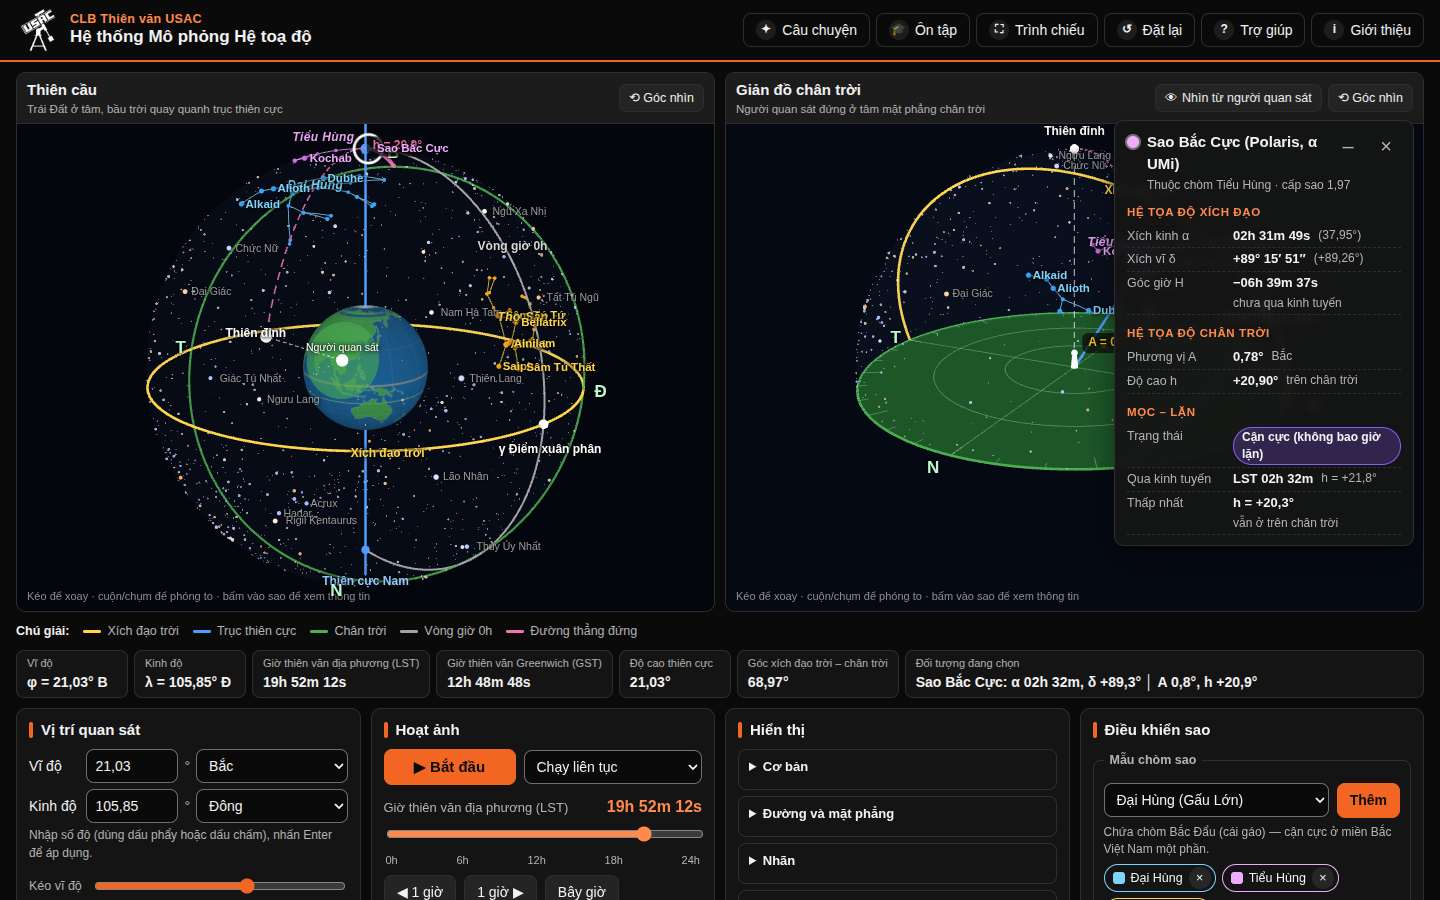
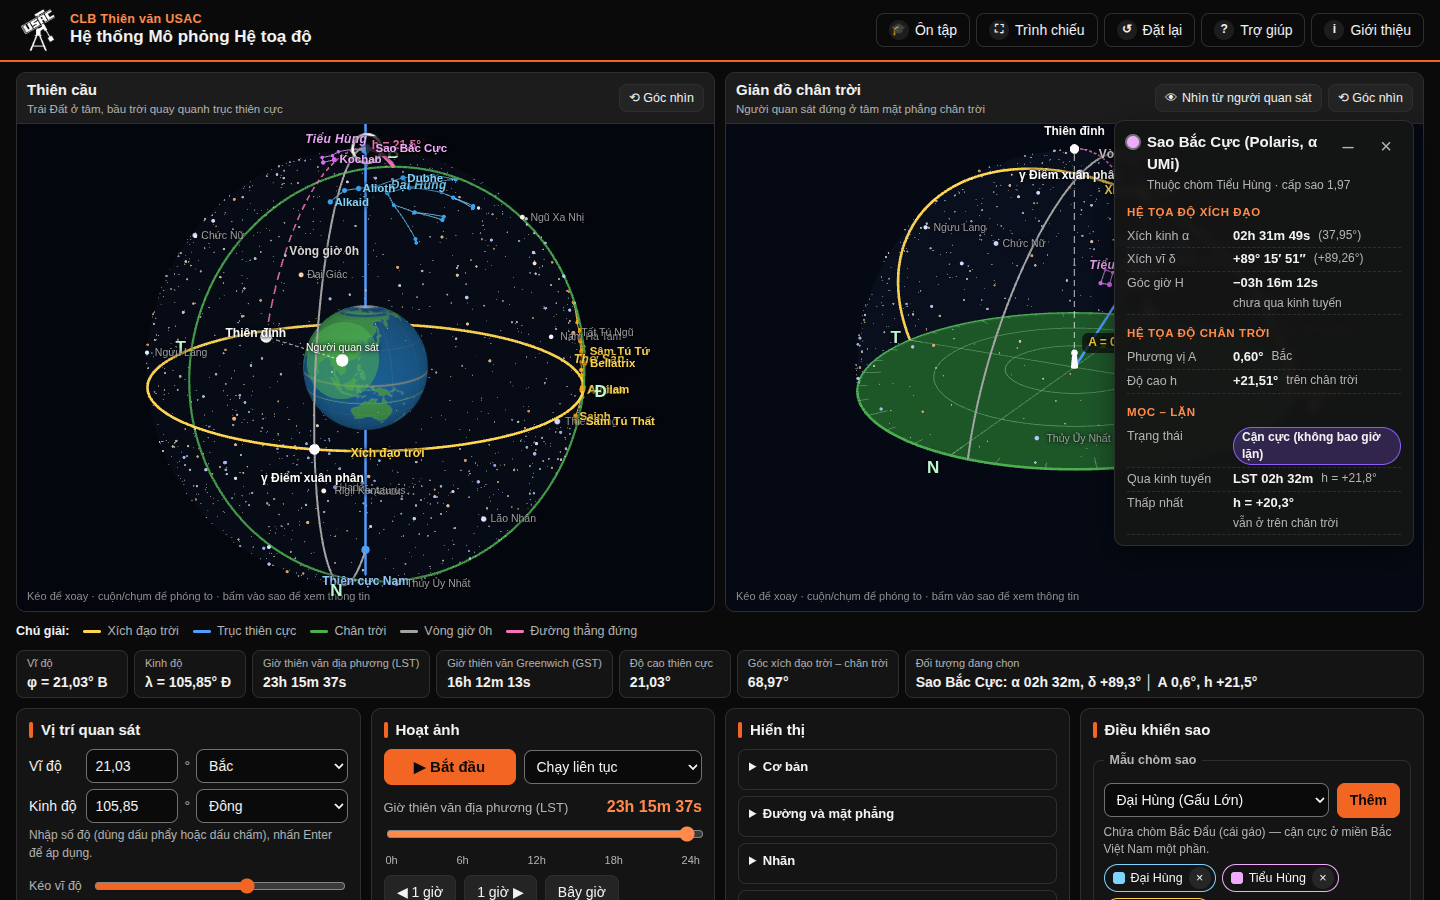
ui: remove remaining guided-story and hero wiring
Drop the Câu chuyện button, story key forwarding, hero button in Giới
thiệu, story strings in help, sheet/hero tokens and story-only places.
Update AGENTS.md and the UI acceptance check to the new top bar.

Claude-Session: https://claude.ai/code/session_019jDA5Mttr3wgpfp9L9cwH3

diff --git a/src/main.ts b/src/main.ts
@@ -6,12 +6,9 @@ import { Animator } from './animator';
 import { t } from './i18n';
 import { startFrameLoop, type FrameView } from './runtime/frameLoop';
 import { createQuality } from './runtime/quality';
-import type { SceneViews } from './scene/boot';
 import { COLORS } from './scene/colors';
 import type { CelestialSphereView } from './scene/celestialSphere';
 import type { HorizonDiagramView } from './scene/horizonDiagram';
-import { mountStory } from './story/entry';
-import type { ViewKey } from './story/types';
 import { Actions, createInitialState, Store, type AppState, type Toggles } from './state';
 import { animationPanel } from './ui/animationPanel';
 import { displayPanel } from './ui/displayPanel';
@@ -65,7 +62,7 @@ const learn = {
 let dialogsMod: Dialogs | null = null;
 let dialogsLoading: Promise<Dialogs> | null = null;
 function loadDialogs(): Promise<Dialogs> {
-  dialogsLoading ??= import('./ui/dialogs').then((m) => (dialogsMod = m.createDialogs({ onShowHero: () => story.showHero() })));
+  dialogsLoading ??= import('./ui/dialogs').then((m) => (dialogsMod = m.createDialogs()));
   return dialogsLoading;
 }
 const dialogs = {
@@ -93,7 +90,6 @@ const topbar = h(
   h(
     'nav',
     { class: 'topbar__actions', 'aria-label': t('top.navAria') },
-    button(t('top.story'), () => story.open(), { cls: 'btn--top', icon: '✦', title: t('top.storyTip') }),
     learnBtn,
     presentBtn,
     button(t('top.reset'), () => resetAll(), { cls: 'btn--top', icon: '↺', title: t('top.resetTip') }),
@@ -160,6 +156,7 @@ const viewTab = (key: 'sphere' | 'horizon') =>
   });
 const tabEls = { sphere: viewTab('sphere'), horizon: viewTab('horizon') };
 const viewTabs = h('div', { class: 'viewtabs', role: 'tablist', 'aria-label': t('view.tabsAria') }, tabEls.sphere, tabEls.horizon);
+type ViewKey = 'sphere' | 'horizon';
 const viewRoving = rovingTabs(viewTabs, (tab) => selectView(tab.dataset.view as ViewKey));
 function selectView(key: ViewKey) {
   views.dataset.active = key;
@@ -284,7 +281,7 @@ function showSceneError(key: 'view.webglError' | 'view.loadError') {
   }
 }
 
-const sceneReady: Promise<SceneViews | null> = scenePromise.then(
+scenePromise.then(
   (m) => {
     for (const host of [sphereHost, horizonHost]) clear(host);
     try {
@@ -340,29 +337,6 @@ const loop = startFrameLoop({
 });
 mountQualityNotice(quality, app);
 
-// ---------------------------------------------------------------- Câu chuyện
-const story = mountStory({
-  store,
-  actions,
-  appRoot: app,
-  reducedMotion: () => window.matchMedia?.('(prefers-reduced-motion: reduce)').matches ?? false,
-  showView: selectView,
-  setFirstPerson: (on) => {
-    void sceneReady.then(() => {
-      if (horizon && horizon.isFirstPerson() !== on) fpBtn.click();
-    });
-  },
-  resetCameras: () => {
-    void sceneReady.then(() => {
-      sphere?.resetCamera();
-      horizon?.resetCamera();
-    });
-  },
-  openLearning: () => learn.open(true),
-  suspendRender: (reason, on) => loop.suspend(reason, on),
-});
-story.maybeShowHero();
-
 // Hook gỡ lỗi/đo hiệu năng — chỉ có ở chế độ phát triển.
 if (import.meta.env.DEV) {
   (window as unknown as Record<string, unknown>).__app = {
@@ -373,7 +347,6 @@ if (import.meta.env.DEV) {
     animator,
     loop,
     quality,
-    story,
     get sphere() {
       return sphere;
     },
@@ -389,7 +362,7 @@ const SPACE_OWNERS = 'button,a,summary,label,[role=tab],input,select,textarea,[c
 const ARROW_OWNERS = '[role=tablist],[role=slider],[role=radiogroup]';
 
 window.addEventListener('keydown', (e) => {
-  // Ưu tiên Esc: 1) hộp thoại gốc (trình duyệt tự đóng) → 2) ngăn Ôn tập → 3) câu chuyện → 4) bỏ chọn.
+  // Ưu tiên Esc: 1) hộp thoại gốc (trình duyệt tự đóng) → 2) ngăn Ôn tập → 3) bỏ chọn.
   if (e.ctrlKey || e.metaKey || e.altKey || dialogs.isOpen()) return;
   const target = e.target instanceof HTMLElement ? e.target : null;
   // Tính "đang gõ" TRƯỚC khi xử lý Esc: Esc trong ô nhập không được bỏ chọn hay đóng ngăn.
@@ -397,12 +370,9 @@ window.addEventListener('keydown', (e) => {
   if (typing) return;
   if (e.key === 'Escape') {
     if (learn.isOpen()) learn.open(false);
-    else if (story.isOpen()) story.onKey(e);
     else actions.select(null);
     return;
   }
-  // Câu chuyện đang mở được xét phím trước (PageDown/PageUp/←/→/Enter để chuyển bước).
-  if (story.isOpen() && story.onKey(e)) return;
   const k = e.key.toLowerCase();
   if (e.key === ' ') {
     if (target?.closest(SPACE_OWNERS)) return;

diff --git a/src/ui/dialogs.ts b/src/ui/dialogs.ts
@@ -123,25 +123,9 @@ function makeDialog(id: string, title: string, lines: string[], extra: HTMLEleme
   return dlg;
 }
 
-export interface DialogOptions {
-  /** Hiện lại màn hình mở đầu (nút trong hộp thoại Giới thiệu, spec K10). */
-  onShowHero?: () => void;
-}
-
-export function createDialogs(opts: DialogOptions = {}) {
+export function createDialogs() {
   const help = makeDialog('dlg-help', t('help.title'), tList('help.body'));
-  const heroBtn = opts.onShowHero
-    ? h('button', {
-        type: 'button',
-        class: 'btn',
-        text: t('about.showHero'),
-        onclick: () => {
-          about.close();
-          opts.onShowHero?.();
-        },
-      })
-    : null;
-  const about = makeDialog('dlg-about', t('about.title'), tList('about.body'), heroBtn ? [heroBtn] : []);
+  const about = makeDialog('dlg-about', t('about.title'), tList('about.body'));
   const open = (dlg: HTMLDialogElement) => {
     dlg.showModal();
     renderMath(dlg);

diff --git a/src/scenario.ts b/src/scenario.ts
@@ -1,4 +1,4 @@
-// Tiện ích dựng tình huống trên mô phỏng — dùng chung cho nhiệm vụ học tập và câu chuyện có hướng dẫn.
+// Tiện ích dựng tình huống trên mô phỏng — dùng cho các nhiệm vụ Ôn tập.
 
 import type { Actions, Store } from './state';
 
@@ -10,9 +10,7 @@ export interface ScenarioContext {
 /** Một số địa điểm hay dùng trong bài học. */
 export const PLACES = {
   hanoi: { lat: 21.03, lon: 105.85 },
-  hue: { lat: 16.46, lon: 107.59 },
   hcm: { lat: 10.82, lon: 106.63 },
-  sydney: { lat: -33.87, lon: 151.21 },
 } as const;
 
 export type PlaceKey = keyof typeof PLACES;

diff --git a/src/styles.css b/src/styles.css
@@ -37,11 +37,9 @@
   --space-6: 32px;
   --tap: 44px;
   --topbar-h: 56px;
-  --sheet-h: 0px;
   --z-topbar: 30;
   --z-sheet: 35;
   --z-drawer: 40;
-  --z-hero: 50;
   --z-toast: 60;
   --shadow-sheet: 0 -8px 24px #00000080;
 
@@ -1378,7 +1376,7 @@ body.present .kv__x {
 .qnotice {
   position: fixed;
   left: var(--space-3);
-  bottom: calc(var(--space-3) + var(--sheet-h));
+  bottom: var(--space-3);
   z-index: var(--z-toast);
   max-width: calc(100vw - 2 * var(--space-3));
   pointer-events: none;

diff --git a/AGENTS.md b/AGENTS.md
@@ -30,21 +30,19 @@ The browser acceptance checks:
 
 - **`src/astro/`** holds pure maths: no DOM, no three.js, unit tested against `astronomy-engine`. Do not change the maths without adding tests that prove it.
 - **`src/scene/`** is the only code that imports three.js at runtime, and only through the lazy `scene/boot.ts` chunk.
-  - UI code (`src/ui/`, `src/story/`) may use `import type` from scene files, and gets colours from `scene/colors.ts`.
+  - UI code (`src/ui/`) may use `import type` from scene files, and gets colours from `scene/colors.ts`.
   - A runtime import of three from UI code puts three back into the entry chunk.
 - **One `Store`** (`src/state.ts`).
   - Change state only through `Actions`.
   - State updates are immutable, because layers detect changes by reference.
   - Both 3D views render only from the store, which is what keeps them in sync.
-- **Shared scripting helpers** live in `src/scenario.ts`: `ensureConstellation`, `selectHip`, `zones`, `PLACES`. The learning tasks and the story both use them.
+- **Shared scripting helpers** live in `src/scenario.ts`: `ensureConstellation`, `selectHip`, `zones`, `PLACES`. The Ôn tập learning tasks use them.
 - **Render loop:** `src/runtime/frameLoop.ts`. Adaptive quality: `src/runtime/quality.ts`.
 - **Browser storage** goes only through `src/ui/storage.ts` (`readJson` with a type guard, and `writeJson`). Wrap every access in try/catch. Keys in use:
 
 | Key | Storage | Content |
 |---|---|---|
 | `thien-cau.hoc-tap.v1` | localStorage | Learning-task progress |
-| `astrosphere.seen.v1` | localStorage | The hero screen has been seen |
-| `astrosphere.story.v1` | localStorage | Story progress |
 | `astrosphere.quality.v1` | sessionStorage | The user restored full quality |
 
 ## Interface text (i18n)
@@ -54,7 +52,7 @@ The browser acceptance checks:
   - Every literal key exists.
   - No common English words appear in any string. The banned words are: the, and, reset, help, about, start, pause, stop, speed, show, hide, star(s), trail, north, south, east, west, settings, loading, error.
   - The formulas in `help.body` and `about.body` compile in KaTeX.
-- Keys built at runtime, such as `story.<chapter>.<step>.title`, are invisible to that test. Any new dynamic key family needs its own test, following the pattern in `src/story/chapters.test.ts`.
+- Keys built at runtime (template strings) are invisible to that test. Any new dynamic key family needs its own unit test that checks every generated key exists.
 - Number formatting uses a comma as the decimal separator; see `astro/format.ts`. Use B/N for north/south and Đ/T for east/west.
 
 ## Brand
@@ -82,7 +80,7 @@ The brand comes from the club site https://web-usac.vercel.app/.
 
 - Respect `prefers-reduced-motion`: no autoplay, and draw trails statically.
 - Return focus to the opener when a drawer or sheet closes.
-- **Esc priority:** dialog → learning drawer → story sheet → clear the selection. Esc never fires while the user is typing.
+- **Esc priority:** dialog → learning drawer → clear the selection. Esc never fires while the user is typing.
 - Global shortcuts must not hijack interactive elements:
   - Space is ignored on buttons, links, `summary`, and inputs.
   - Arrow keys are ignored inside `role=tablist`, `slider` and `radiogroup`.
@@ -91,6 +89,6 @@ The brand comes from the club site https://web-usac.vercel.app/.
 ## Git
 
 - Work branches are named `claude/<topic>`; parallel stream branches are `redesign/<stream>`. Merge them with `--no-ff`.
-- Commit subjects are descriptive and start with a scope: `ui:`, `story:`, `scene:`, `perf:`, `data:`, `docs:`, `build:`, or `test:`. No one-letter messages.
+- Commit subjects are descriptive and start with a scope: `ui:`, `scene:`, `perf:`, `data:`, `docs:`, `build:`, or `test:`. No one-letter messages.
 - Each commit should pass `npm test` and `npm run build`.
 - When fixing a `TODO.md` item, mark it `[x]` and cite the commit hash.
